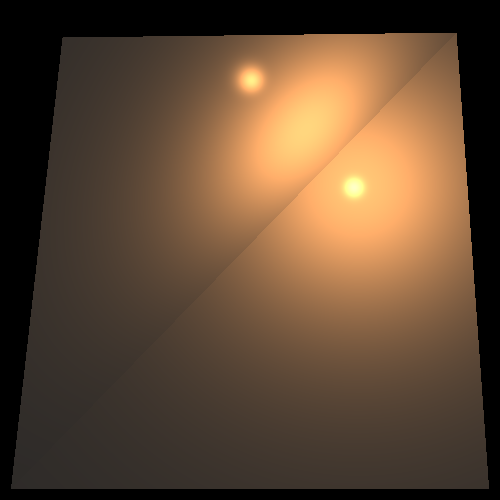
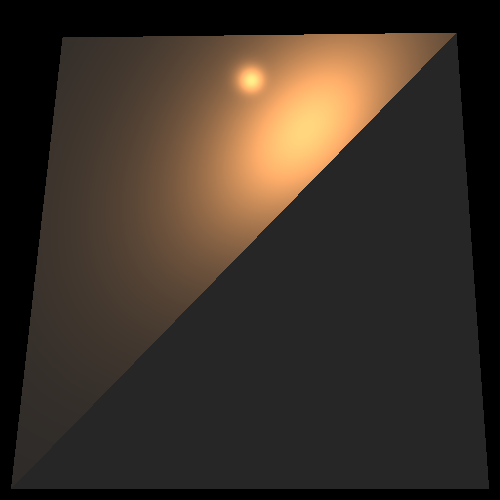
PR-07 - unshaded

diff --git a/src/renderer/RayTracerBasic.java b/src/renderer/RayTracerBasic.java
@@ -54,7 +54,7 @@ public class RayTracerBasic extends RayTracer {
             Vector l = lightSource.getL(intersection._point);
             double nl= alignZero(n.dotProduct(l));
             if (nl * nv> 0) { // sign(nl) == sing(nv)\
-                if (unshaded(intersection, l, n)){
+                if (unshaded(intersection, l, n, lightSource)){
 
                 Color lightIntensity= lightSource.getIntensity(intersection._point);
                 color = color.add(calcDiffusive(kd, l, n, lightIntensity).add(
@@ -99,12 +99,18 @@ public class RayTracerBasic extends RayTracer {
         return lightIntensity.scale(kd.scale(Math.abs(lN)));
     }
 
-    private boolean unshaded(GeoPoint gp, Vector l, Vector n){
+    private boolean unshaded(GeoPoint gp, Vector l, Vector n, LightSource ls){
         Vector lightDir = l.scale(-1);
         Ray lightRay = new Ray(gp._point, n, lightDir);
         List<GeoPoint> intersections = _scene._geometries.findGeoIntersections(lightRay);
         if (intersections == null)
             return true;
-        return false;
+        else{
+            for (GeoPoint gp2 : intersections){
+                if (ls.getDistance(gp2._point) < ls.getDistance(gp._point))
+                    return false;
+            }
+        }
+        return true;
     }
 }

diff --git a/src/lighting/DirectionalLight.java b/src/lighting/DirectionalLight.java
@@ -1,6 +1,7 @@
 package lighting;
 
 import primitives.Color;
+import primitives.Double3;
 import primitives.Point;
 import primitives.Vector;
 
@@ -24,5 +25,10 @@ public class DirectionalLight extends Light implements LightSource {
     @Override
     public Vector getL(Point p) {
         return _direction;
+    }
+
+    @Override
+    public double getDistance(Point point) {
+        return Double.POSITIVE_INFINITY;
     }
 }

diff --git a/src/geometries/Triangle.java b/src/geometries/Triangle.java
@@ -48,7 +48,7 @@ public class Triangle extends Polygon{
         if((num1>0&&num2>0&&num3>0)||(num1<0&&num2<0&&num3<0)) {
             Plane pl = new Plane(l.get(0), l.get(1), l.get(2));
             List<GeoPoint> geoPoints =new LinkedList<>();
-
+if(pl.findIntersections(ray) != null)
             for ( Point pt : pl.findIntersections(ray) ) {
                 geoPoints.add( new GeoPoint(this,pt));
             }

diff --git a/src/lighting/PointLight.java b/src/lighting/PointLight.java
@@ -52,4 +52,9 @@ public class PointLight extends Light implements LightSource{
             return null;
         }
     }
+
+    @Override
+    public double getDistance(Point point) {
+        return point.distance(_position);
+    }
 }

diff --git a/src/lighting/LightSource.java b/src/lighting/LightSource.java
@@ -11,4 +11,5 @@ import primitives.*;
 public interface LightSource {
     public Color getIntensity(Point p);
     public Vector getL(Point p);
+    double getDistance(Point point);
 }
